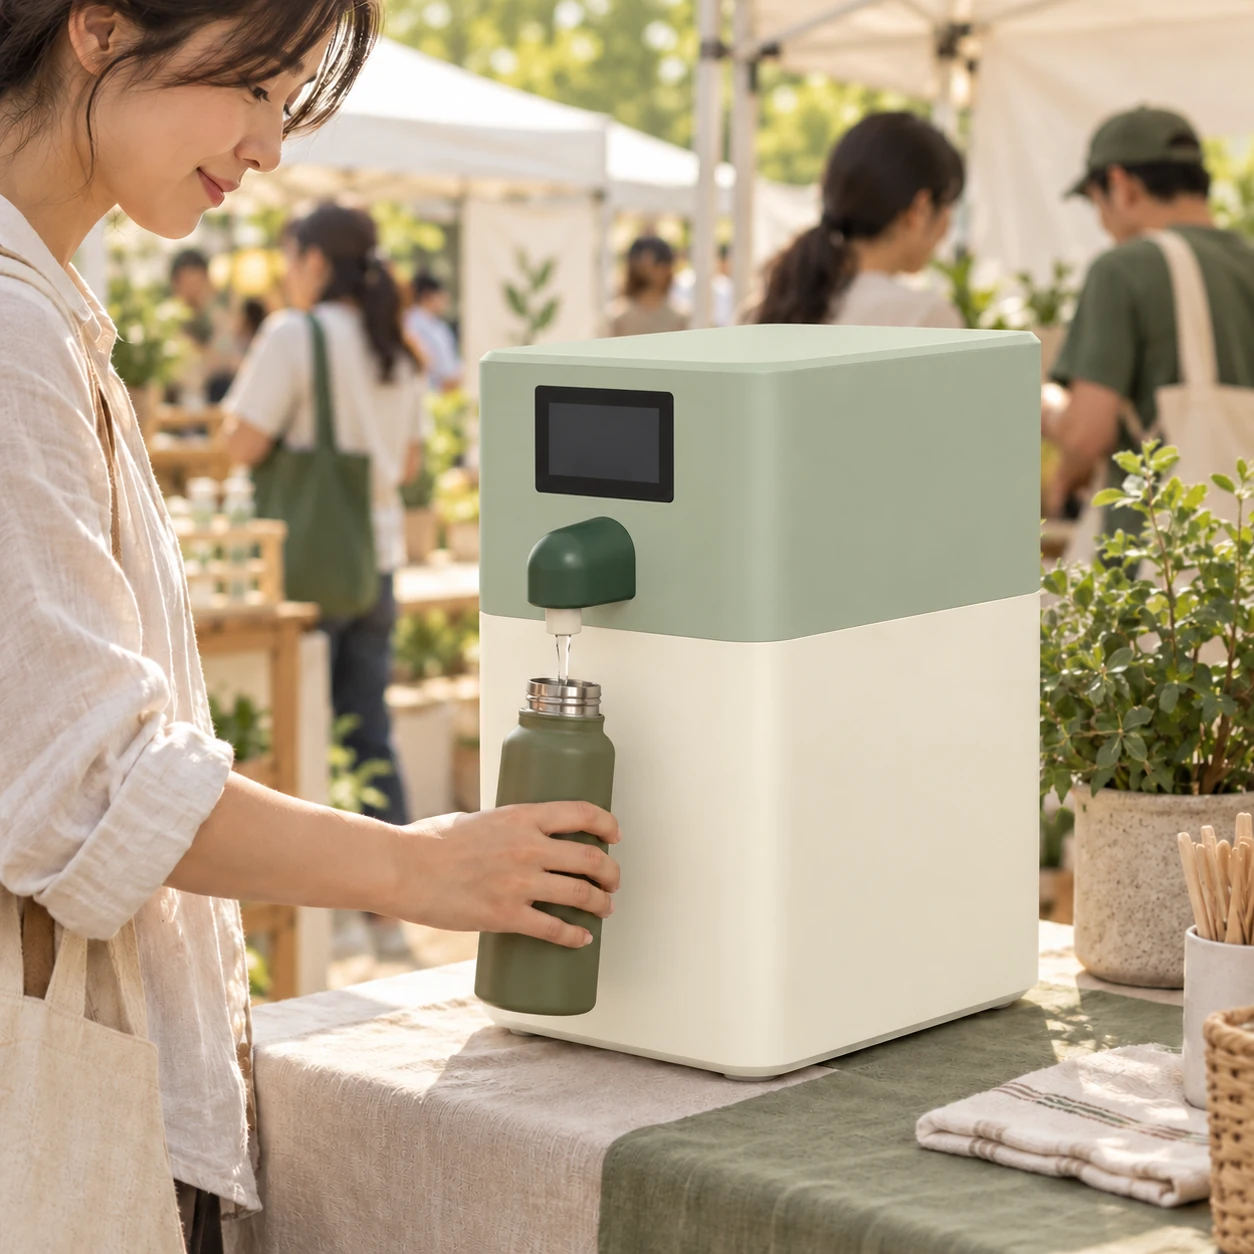
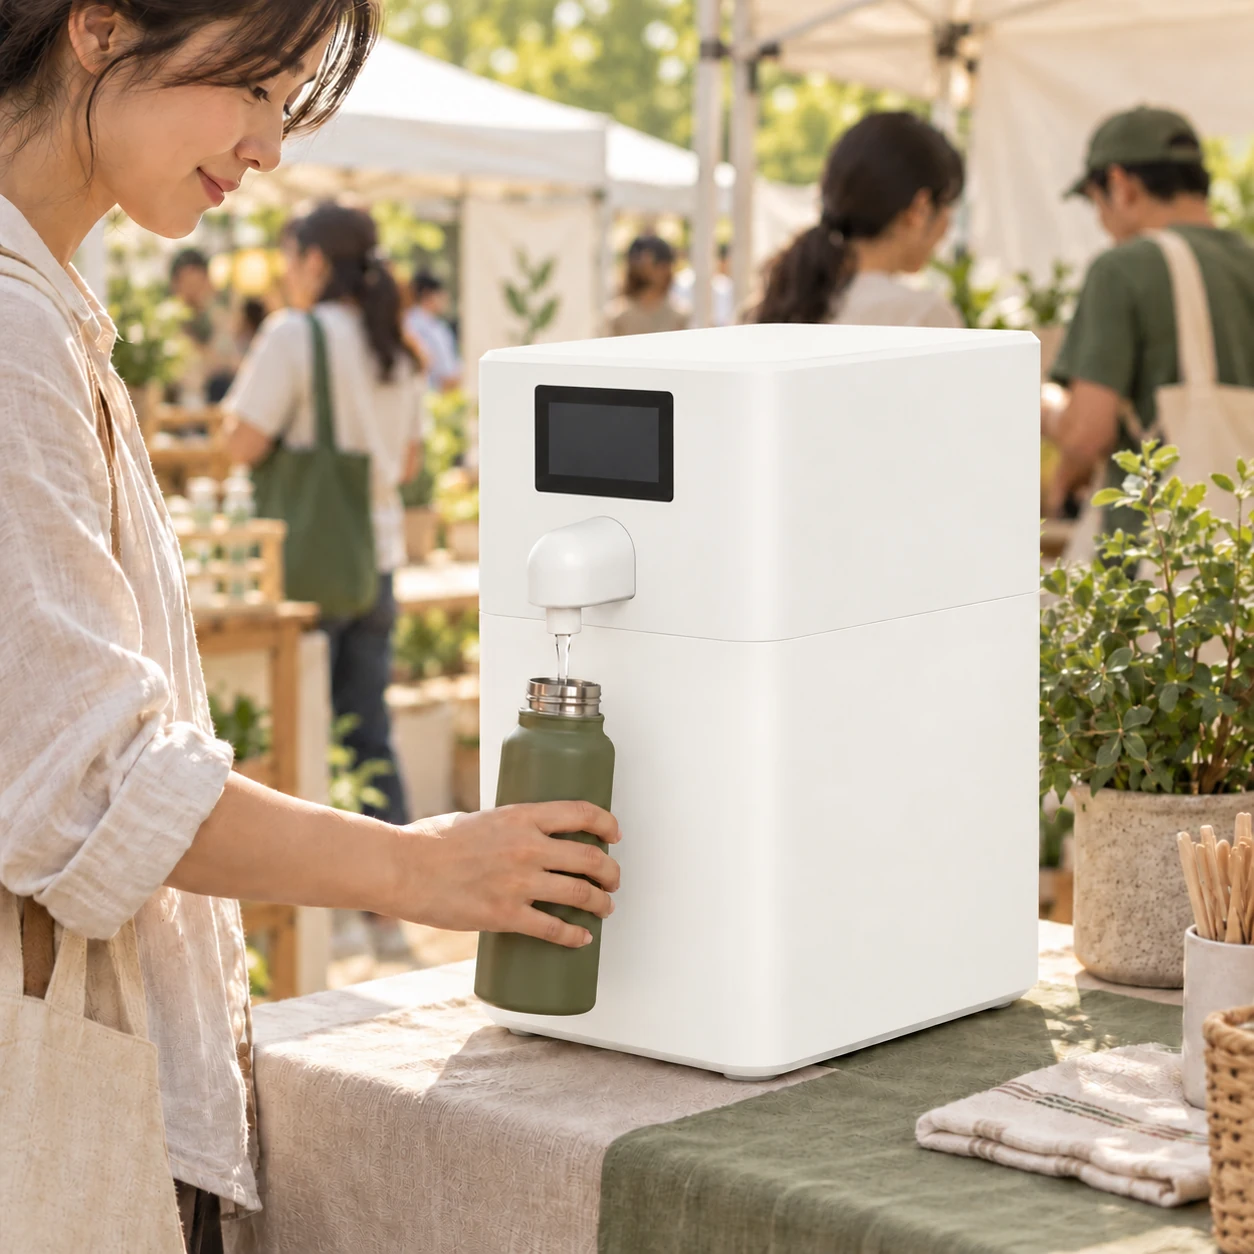
Clarify refill features in Korean and make event model white

diff --git a/index.html b/index.html
@@ -4,9 +4,9 @@
   <meta charset="utf-8">
   <meta name="viewport" content="width=device-width, initial-scale=1, viewport-fit=cover">
   <meta name="theme-color" content="#f5f3eb">
-  <meta name="description" content="어린이 체험 공간부터 제로웨이스트 숍과 행사장까지. 공간과 요청에 맞춰 형태, 색상, 구성을 만드는 endet. 모듈형 리필스테이션을 만나보세요.">
+  <meta name="description" content="원하는 양을 정량으로 채우는 모듈형 리필스테이션. 총 리필량 집계와 매장 POS 연동이 가능합니다. 원하는 모양과 색상으로 제작하며, 판매·대여·ESG 행사 운영을 합니다.">
   <link rel="canonical" href="https://refill.endet.xyz/">
-  <link rel="stylesheet" href="product.css">
+  <link rel="stylesheet" href="product.css?v=20261021-2">
   <title>모듈형 리필스테이션 — endet.</title>
 </head>
 <body>
@@ -14,70 +14,70 @@
     <header class="masthead">
       <div class="brand">
         <img class="wordmark" src="assets/aeonik-wordmark-brand-700.svg" alt="endet." width="108" height="30">
-        <span class="brand-note">다시 채우는 일상을 만듭니다.</span>
+        <span class="brand-note">리필스테이션 제작</span>
       </div>
-      <span class="masthead-label" lang="en">Modular refill station</span>
+      <span class="masthead-label">제품 소개</span>
     </header>
     <section class="intro" aria-labelledby="page-title">
       <div>
         <p class="eyebrow">모듈형 리필스테이션</p>
-        <h1 id="page-title">공간에 맞추다.<br><span>리필을 잇다.</span></h1>
+        <h1 id="page-title">원하는 양만큼<br><span>리필하세요.</span></h1>
       </div>
       <div class="intro-copy">
-        <p>아이들의 첫 리필부터,<br class="desktop-break"> 가게의 일상과 특별한 행사까지.<br>필요한 곳에, 그곳에 어울리는 모습으로.</p>
-        <p class="custom-note"><span aria-hidden="true">＋</span> 형태 · 색상 · 구성을 요청에 맞춰 제작합니다.</p>
+        <p>원하는 양을 설정하면 정량으로 토출합니다.<br>총 리필량 집계와 매장 POS 연동도 가능합니다.</p>
+        <p class="custom-note"><span aria-hidden="true">＋</span> 모양 · 색상 · 구성은 요청에 맞춰 제작합니다.</p>
       </div>
     </section>
     <section class="products" aria-label="공간에 맞춘 세 가지 리필스테이션">
       <article class="product product-penguin">
         <div class="product-media">
-          <img src="assets/product/penguin-usecase.webp" alt="어린이 체험 공간에서 아이들이 펭귄형 리필스테이션으로 용기를 채우는 사용 장면 예시" width="1254" height="1254" fetchpriority="high">
-          <span class="image-label" lang="en"><b>01</b> Little refillers</span>
+          <img src="assets/product/penguin-usecase.webp" alt="어린이들이 펭귄 모양의 캐릭터형 리필스테이션으로 용기를 채우는 예시" width="1254" height="1254" fetchpriority="high">
+          <span class="image-label"><b>01</b> 어린이 체험 공간</span>
         </div>
         <div class="product-copy">
-          <div class="product-heading"><h2>펭귄형</h2><span class="swatches" aria-label="블랙과 파우더 블루 색상 예시"><i></i><i></i></span></div>
-          <p class="product-tagline">아이들의 호기심이 리필 습관으로.</p>
-          <p class="product-description">친근한 캐릭터와 함께 직접 채워보는 경험.</p>
-          <p class="destinations">어린이 체험관 · 교육 공간 · 키즈 공간</p>
+          <div class="product-heading"><h2>캐릭터형</h2><span class="swatches" aria-label="검정과 연한 파랑 색상 예시"><i></i><i></i></span></div>
+          <p class="product-tagline">아이들이 직접 리필해 보는 기기</p>
+          <p class="product-description">원하는 캐릭터 모양으로 제작할 수 있습니다.</p>
+          <p class="destinations">어린이 체험관 · 학교 · 교육 행사</p>
         </div>
       </article>
       <article class="product product-standing">
         <div class="product-media">
           <img src="assets/product/standing-usecase.webp" alt="제로웨이스트 숍에서 스탠딩형 리필스테이션으로 생활용품을 리필하는 사용 장면 예시" width="1254" height="1254">
-          <span class="image-label" lang="en"><b>02</b> Everyday refill</span>
+          <span class="image-label"><b>02</b> 제로웨이스트 매장</span>
         </div>
         <div class="product-copy">
           <div class="product-heading"><h2>스탠딩형</h2><span class="swatches" aria-label="올리브와 연한 노랑 색상 예시"><i></i><i></i></span></div>
-          <p class="product-tagline">가게 한편에, 매일의 리필.</p>
-          <p class="product-description">공간에 자연스럽게 어울리는 슬림한 형태.</p>
-          <p class="destinations">제로웨이스트 숍 · 리필 매장 · 생활 편집숍</p>
+          <p class="product-tagline">매장에 놓고 쓰는 세로형 기기</p>
+          <p class="product-description">매장에 어울리는 색상으로 제작합니다.</p>
+          <p class="destinations">제로웨이스트 숍 · 리필 매장</p>
         </div>
       </article>
       <article class="product product-event">
         <div class="product-media">
-          <img src="assets/product/event-usecase.webp" alt="야외 행사장에서 말통을 본체 안에 담은 리필스테이션을 사용하는 장면 예시" width="1254" height="1254">
-          <span class="image-label" lang="en"><b>03</b> Refill together</span>
+          <img src="assets/product/event-usecase.webp?v=white" alt="야외 행사장에서 흰색 말통 내장형 리필스테이션을 사용하는 예시" width="1254" height="1254">
+          <span class="image-label"><b>03</b> 행사장</span>
         </div>
         <div class="product-copy">
-          <div class="product-heading"><h2>말통 내장형</h2><span class="swatches" aria-label="세이지와 아이보리 색상 예시"><i></i><i></i></span></div>
-          <p class="product-tagline">사람이 모이는 곳에, 리필의 경험.</p>
-          <p class="product-description">말통을 본체 안에 담아 사용하는 구성.</p>
-          <p class="destinations">축제 · 팝업 스토어 · 캠페인 행사</p>
+          <div class="product-heading"><h2>말통 내장형</h2><span class="swatches" aria-label="흰색"><i></i></span></div>
+          <p class="product-tagline">말통을 본체 안에 넣고 쓰는 기기</p>
+          <p class="product-description">행사장이나 임시 매장에 놓고 사용합니다.</p>
+          <p class="destinations">축제 · 팝업 매장 · ESG 행사</p>
         </div>
       </article>
     </section>
     <footer class="contact">
       <div class="contact-copy">
-        <h2>당신의 공간에는 어떤 모습일까요?</h2>
-        <p>세 가지 모델을 시작으로, 원하는 형태와 색상으로 함께 만듭니다.</p>
-        <a class="contact-button" href="https://docs.google.com/forms/d/e/1FAIpQLScWpDqOCj6iq2jplI4fFplOBXAmvevhrH_RSnBfqwGW17vVJA/viewform" target="_blank" rel="noopener noreferrer">맞춤 제작 문의 <span aria-hidden="true">↗</span><span class="sr-only"> (Google 설문, 새 탭)</span></a>
+        <h2>판매 · 대여 · ESG 행사 운영</h2>
+        <p>구매·대여나 행사 운영을 원하시면 연락처를 남겨주세요.</p>
+        <a class="contact-button" href="https://docs.google.com/forms/d/e/1FAIpQLScWpDqOCj6iq2jplI4fFplOBXAmvevhrH_RSnBfqwGW17vVJA/viewform" target="_blank" rel="noopener noreferrer">제작 · 대여 · 행사 문의 <span aria-hidden="true">↗</span><span class="sr-only"> (구글 설문, 새 탭)</span></a>
       </div>
       <div class="qr-block">
-        <div class="qr-copy"><p>더 궁금하다면,<br>QR로 만나보세요.</p><span>refill.endet.xyz</span></div>
+        <div class="qr-copy"><p>자세한 내용은<br>QR코드로 확인하세요.</p><span>refill.endet.xyz</span></div>
         <a class="qr-link" href="https://refill.endet.xyz" aria-label="제품 소개 페이지 refill.endet.xyz 열기"><img src="assets/product/refill-qr.svg" alt="https://refill.endet.xyz로 접속하는 QR 코드" width="116" height="116"></a>
       </div>
     </footer>
-    <p class="image-note">이미지는 모델을 바탕으로 제작한 AI 사용 장면 예시입니다. 최종 형태와 색상은 제작 협의에 따라 달라질 수 있습니다.</p>
+    <p class="image-note">사용 장면은 AI로 만든 예시입니다. 실제 모양과 색상은 주문 시 협의해 정합니다.</p>
   </main>
 </body>
 </html>

diff --git a/product.css b/product.css
@@ -1,9 +1,9 @@
 @font-face{font-family:Geist;src:url("fonts/Geist-Variable.woff2") format("woff2");font-style:normal;font-weight:100 900;font-display:swap}
 :root{--paper:#f5f3eb;--ink:#1f4033;--muted:#526659;--line:#cdd2c5;font-family:Geist,"Apple SD Gothic Neo","Noto Sans KR",system-ui,sans-serif;color:var(--ink);background:var(--paper);font-synthesis:none;-webkit-text-size-adjust:100%}
 *{box-sizing:border-box}body{margin:0}h1,h2,p{margin:0;word-break:keep-all}a{color:inherit;text-decoration:none}img{display:block;max-width:100%}a:focus-visible{outline:3px solid #4a7955;outline-offset:5px}
-.sheet{width:min(100%,1680px);margin:auto;padding:24px 40px 16px}.masthead{display:flex;align-items:center;justify-content:space-between;gap:20px;padding-bottom:17px;border-bottom:1px solid var(--line)}.brand{display:flex;align-items:center;gap:25px}.wordmark{width:100px;height:auto}.brand-note{font-size:12px;font-weight:500;letter-spacing:-.02em}.masthead-label{font-size:10px;font-weight:600;letter-spacing:.16em;text-transform:uppercase;white-space:nowrap}
+.sheet{width:min(100%,1680px);margin:auto;padding:24px 40px 16px}.masthead{display:flex;align-items:center;justify-content:space-between;gap:20px;padding-bottom:17px;border-bottom:1px solid var(--line)}.brand{display:flex;align-items:center;gap:25px}.wordmark{width:100px;height:auto}.brand-note{font-size:12px;font-weight:500;letter-spacing:-.02em}.masthead-label{font-size:10px;font-weight:600;letter-spacing:.015em;white-space:nowrap}
 .intro{display:grid;grid-template-columns:1.15fr 1fr;align-items:center;gap:28px;padding:25px 0 28px}.eyebrow{font-size:12px;font-weight:650;letter-spacing:.015em;margin-bottom:13px}h1{font-size:clamp(40px,4.3vw,66px);line-height:1.06;letter-spacing:-.065em;font-weight:730}h1 span{color:#66816a}.intro-copy{justify-self:end;padding:12px 0 0;min-width:0}.intro-copy>p:first-child{font-size:clamp(14px,1.4vw,19px);line-height:1.65;font-weight:450;letter-spacing:-.035em}.custom-note{margin-top:17px;font-size:12px;font-weight:550;letter-spacing:-.035em;line-height:1.55;display:flex;align-items:center;gap:9px}.custom-note span{font-size:20px;font-weight:350;line-height:1}
-.products{display:grid;grid-template-columns:repeat(3,minmax(0,1fr));gap:22px;min-height:0}.product{min-width:0;display:flex;flex-direction:column}.product-media{position:relative;overflow:hidden;background:#e6e9dd;border-radius:3px;aspect-ratio:1}.product-media>img{width:100%;height:100%;object-fit:cover}.image-label{position:absolute;top:12px;left:12px;display:flex;align-items:center;gap:8px;padding:7px 10px;border-radius:2px;background:rgba(245,243,235,.94);font-size:9px;letter-spacing:.085em;text-transform:uppercase;font-weight:600;color:#1f4033}.image-label b{font-size:10px;font-weight:700;letter-spacing:0;padding-right:8px;border-right:1px solid #b6c0ae}.product-copy{padding-top:15px}.product-heading{display:flex;align-items:center;justify-content:space-between;gap:12px;margin-bottom:8px}.product-heading h2{font-size:23px;font-weight:700;letter-spacing:-.055em;line-height:1.15}.swatches{display:flex;gap:5px}.swatches i{width:10px;height:10px;border-radius:50%;border:1px solid #1f403324}.product-penguin .swatches i:first-child{background:#252b2c}.product-penguin .swatches i:last-child{background:#b8d5e0}.product-standing .swatches i:first-child{background:#59624a}.product-standing .swatches i:last-child{background:#f2e7a5}.product-event .swatches i:first-child{background:#a2b2a2}.product-event .swatches i:last-child{background:#eee9db}.product-tagline{font-size:14px;line-height:1.45;font-weight:650;letter-spacing:-.04em}.product-description{font-size:12px;line-height:1.6;color:var(--muted);letter-spacing:-.025em;margin-top:3px}.destinations{font-size:10px;line-height:1.5;letter-spacing:-.01em;color:#5e6d60;margin-top:11px}
+.products{display:grid;grid-template-columns:repeat(3,minmax(0,1fr));gap:22px;min-height:0}.product{min-width:0;display:flex;flex-direction:column}.product-media{position:relative;overflow:hidden;background:#e6e9dd;border-radius:3px;aspect-ratio:1}.product-media>img{width:100%;height:100%;object-fit:cover}.image-label{position:absolute;top:12px;left:12px;display:flex;align-items:center;gap:8px;padding:7px 10px;border-radius:2px;background:rgba(245,243,235,.94);font-size:10px;letter-spacing:0;font-weight:600;color:#1f4033}.image-label b{font-size:10px;font-weight:700;letter-spacing:0;padding-right:8px;border-right:1px solid #b6c0ae}.product-copy{padding-top:15px}.product-heading{display:flex;align-items:center;justify-content:space-between;gap:12px;margin-bottom:8px}.product-heading h2{font-size:23px;font-weight:700;letter-spacing:-.055em;line-height:1.15}.swatches{display:flex;gap:5px}.swatches i{width:10px;height:10px;border-radius:50%;border:1px solid #1f403324}.product-penguin .swatches i:first-child{background:#252b2c}.product-penguin .swatches i:last-child{background:#b8d5e0}.product-standing .swatches i:first-child{background:#59624a}.product-standing .swatches i:last-child{background:#f2e7a5}.product-event .swatches i{background:#f7f7f2}.product-tagline{font-size:14px;line-height:1.45;font-weight:650;letter-spacing:-.04em}.product-description{font-size:12px;line-height:1.6;color:var(--muted);letter-spacing:-.025em;margin-top:3px}.destinations{font-size:10px;line-height:1.5;letter-spacing:-.01em;color:#5e6d60;margin-top:11px}
 .contact{display:flex;align-items:center;justify-content:space-between;gap:30px;border-top:1px solid var(--line);padding-top:20px;margin-top:25px}.contact-copy h2{font-size:22px;font-weight:650;line-height:1.25;letter-spacing:-.05em}.contact-copy>p{font-size:12px;line-height:1.6;color:var(--muted);margin-top:7px;letter-spacing:-.025em}.contact-button{margin-top:13px;display:inline-flex;align-items:center;justify-content:space-between;gap:30px;padding:12px 17px;background:var(--ink);color:var(--paper);border-radius:3px;font-size:12px;font-weight:600;letter-spacing:-.015em;min-height:44px}.contact-button:hover{background:#345d46}.contact-button>span[aria-hidden]{font-size:18px;line-height:1}.qr-block{display:flex;align-items:center;gap:18px;flex-shrink:0}.qr-copy{text-align:right}.qr-copy p{font-size:14px;line-height:1.5;letter-spacing:-.035em;font-weight:550}.qr-copy>span{display:block;font-size:10px;letter-spacing:.025em;margin-top:10px;color:var(--muted)}.qr-link{display:block;background:#fff;border-radius:2px}.qr-link img{width:116px;height:116px}.image-note{color:#687468;font-size:9px;line-height:1.5;letter-spacing:-.01em;margin-top:13px}.sr-only{position:absolute;width:1px;height:1px;margin:-1px;padding:0;overflow:hidden;clip:rect(0,0,0,0);white-space:nowrap;border:0}
 @media(min-width:900px) and (min-height:700px){.sheet{height:100vh;height:100svh;display:grid;grid-template-rows:auto auto minmax(0,1fr) auto auto;padding:22px 38px 14px}.intro{padding:24px 0}.products{align-items:stretch}.product-media{aspect-ratio:auto;flex:1;min-height:0}.product-media>img{position:absolute;inset:0}.product-copy{flex-shrink:0}.contact{margin-top:22px}.image-note{margin-top:11px}}
 @media(min-width:900px) and (min-height:700px) and (max-height:940px){.sheet{padding:18px 34px 12px}.masthead{padding-bottom:13px}.wordmark{width:94px}.intro{padding:18px 0 20px}.eyebrow{margin-bottom:9px}h1{font-size:54px}.intro-copy>p:first-child{font-size:16px}.custom-note{margin-top:12px}.product-copy{padding-top:12px}.product-heading{margin-bottom:6px}.product-heading h2{font-size:21px}.product-tagline{font-size:13px}.product-description{font-size:11px}.destinations{margin-top:8px;font-size:9.5px}.contact{margin-top:18px;padding-top:15px}.contact-copy h2{font-size:20px}.contact-copy>p{margin-top:5px;font-size:11px}.contact-button{margin-top:9px;padding:10px 15px}.qr-link img{width:110px;height:110px}.image-note{font-size:8.5px;margin-top:9px}}
